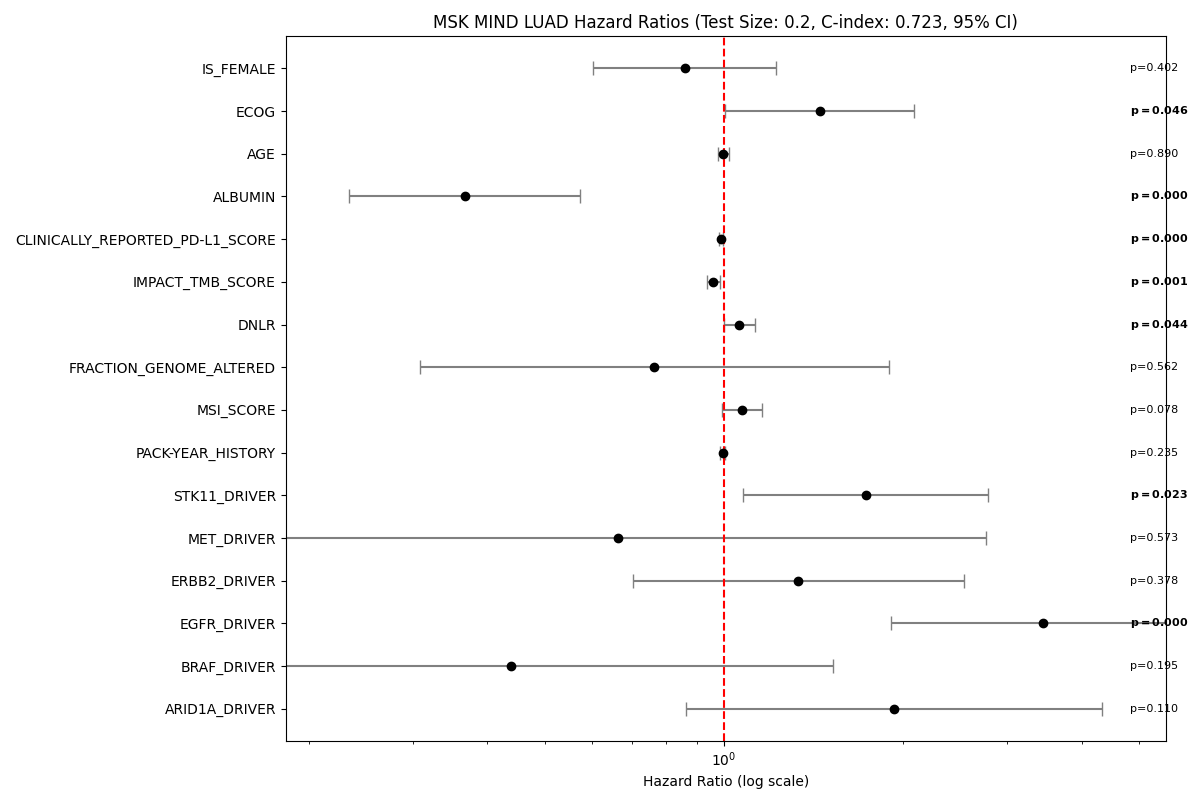
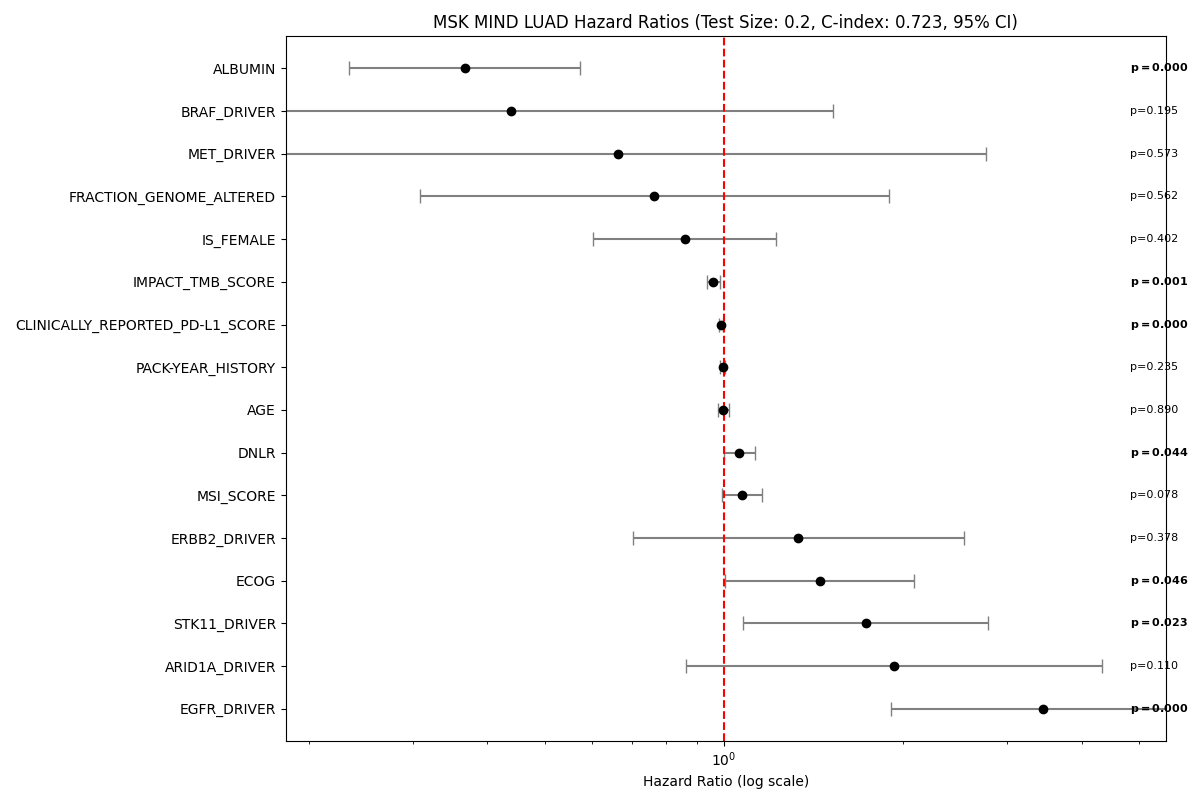
add latex table making

diff --git a/coxph-0.2split.py b/coxph-0.2split.py
@@ -4,6 +4,41 @@ from matplotlib import pyplot as plt
 import numpy as np
 from sklearn.model_selection import train_test_split
 
+
+def dataframe_to_latex(df, caption="Table Caption", label="table:label"):
+    """
+    Convert a pandas DataFrame to a LaTeX tabular environment and print it.
+    
+    Parameters:
+    - df: pandas DataFrame
+    - caption: The caption of the table (optional)
+    - label: The label for referencing the table in LaTeX (optional)
+    """
+    # Start the LaTeX table environment
+    latex_str = "\\begin{table}[htbp]\n"
+    latex_str += "\\centering\n"
+    latex_str += f"\\caption{{{caption}}}\n"
+    latex_str += f"\\label{{{label}}}\n"
+    # afterwards do l c c for left on covariates
+    latex_str += "\\begin{tabular}{" + " | ".join(['c' for _ in df.columns]) + "}\n"
+    latex_str += "\\hline\n"
+
+    # Add column headers
+    latex_str += " & ".join(df.columns) + " \\\\\n"
+    latex_str += "\\hline\n"
+
+    # Add table rows
+    for _, row in df.iterrows():
+        latex_str += " & ".join(map(str, row.values)) + " \\\\\n"
+        # latex_str += "\\hline\n"
+
+    # End the LaTeX table environment
+    latex_str += "\\end{tabular}\n"
+    latex_str += "\\end{table}\n"
+
+    # Print the LaTeX table
+    print(latex_str)
+
 def run_model(df, name):
     # Train-test split
     # Split the data into training and testing sets
@@ -42,6 +77,9 @@ def run_model(df, name):
             return ""
 
     summary_df['significance'] = summary_df['p'].apply(significance_stars)
+    
+    # Sort summary_df by the coefficient values (ascending order)
+    summary_df = summary_df.sort_values(by='coef', ascending=False)
 
     print(summary_df)
 
@@ -65,6 +103,38 @@ def run_model(df, name):
     hazard_ratios = np.exp(cph.params_)  # Exponentiate the coefficients to get hazard ratios
     confidence_intervals = np.exp(cph.confidence_intervals_)  # Exponentiate confidence intervals
     p_values = cph.summary['p']  # Extract p-values from the summary
+    
+    # Print Latex table, round to 2 decimal places
+    summary_df = summary_df.round(2)
+    
+    print(summary_df.info())
+    
+    # Keep only exp(coef) - hazard ratio, exp(coef) lower 95%, exp(coef) upper 95%, p-value
+    latex_df = summary_df[['exp(coef)', 'exp(coef) lower 95%', 'exp(coef) upper 95%', 'p']]
+    
+    # Include covariate names in the table
+    latex_df['Covariate'] = latex_df.index
+    
+    # Remove underscores in the covariate names
+    latex_df['Covariate'] = latex_df['Covariate'].str.replace('_', ' ')
+    
+    # Combine lower and upper confidence interval bounds into hazard ratios 
+    latex_df["Hazard Ratio"] = latex_df["exp(coef)"].astype(str) + " (" + latex_df["exp(coef) lower 95%"].astype(str) + "-" + latex_df["exp(coef) upper 95%"].astype(str) + ")"
+    
+    # Drop the columns that are no longer needed
+    latex_df = latex_df.drop(columns=['exp(coef)', 'exp(coef) lower 95%', 'exp(coef) upper 95%'])
+    
+    # Arrange the columns in the correct order
+    latex_df = latex_df[['Covariate', 'Hazard Ratio', 'p']]
+    
+    dataframe_to_latex(latex_df, caption=f'{name} Model Summary', label='table:model-summary')
+
+    # Sort the parameters by hazard ratio in descending order
+    sorted_indices = np.argsort(hazard_ratios)[::-1]
+    sorted_hazard_ratios = hazard_ratios[sorted_indices]
+    sorted_confidence_intervals = confidence_intervals.iloc[sorted_indices]
+    sorted_p_values = p_values.iloc[sorted_indices]
+    sorted_params = cph.params_.index[sorted_indices]
 
     # Plotting the forest plot
     plt.figure(figsize=(12, 8))
@@ -73,25 +143,25 @@ def run_model(df, name):
     plt.title(f'{name} Hazard Ratios (Test Size: {test_size}, C-index: {c_index:.3f}, 95% CI)')
 
     # Generate a forest plot for hazard ratios with 95% confidence intervals
-    plt.errorbar(hazard_ratios, range(len(hazard_ratios)), 
-                xerr=[hazard_ratios - confidence_intervals.iloc[:, 0], confidence_intervals.iloc[:, 1] - hazard_ratios],
+    plt.errorbar(sorted_hazard_ratios, range(len(sorted_hazard_ratios)), 
+                xerr=[sorted_hazard_ratios - sorted_confidence_intervals.iloc[:, 0], sorted_confidence_intervals.iloc[:, 1] - sorted_hazard_ratios],
                 fmt='o', color='black', ecolor='grey', capsize=5)
 
     # Add labels for the covariates
-    plt.yticks(range(len(hazard_ratios)), cph.params_.index)
+    plt.yticks(range(len(sorted_hazard_ratios)), sorted_params)
     plt.axvline(x=1, linestyle='--', color='red')  # Reference line at HR=1
     plt.xlabel('Hazard Ratio (log scale)')
     plt.xscale('log')  # Logarithmic scale for the hazard ratios
 
-    x_pos = max(hazard_ratios) * 1.4  # Position the p-values far to the right
-    for i, p in enumerate(p_values):
+    x_pos = max(sorted_hazard_ratios) * 1.4  # Position the p-values far to the right
+    for i, (hr, p) in enumerate(zip(sorted_hazard_ratios, sorted_p_values)):
         if p < 0.05:
             plt.text(x_pos, i, f'$\\mathbf{{p={p:.3f}}}$', va='center', ha='left', fontsize=8)
         else:
             plt.text(x_pos, i, f'p={p:.3f}', va='center', ha='left', fontsize=8)
 
     # Adjust x-axis limits to ensure p-values are visible
-    plt.xlim(left=min(hazard_ratios) / 2, right=x_pos * 1.15)
+    plt.xlim(left=min(sorted_hazard_ratios) / 2, right=x_pos * 1.15)
 
     # Display the plot
     plt.tight_layout()

diff --git a/coxph-0.2split-rsf.py b/coxph-0.2split-rsf.py
@@ -4,6 +4,40 @@ from matplotlib import pyplot as plt
 import numpy as np
 from sklearn.model_selection import train_test_split
 
+def dataframe_to_latex(df, caption="Table Caption", label="table:label"):
+    """
+    Convert a pandas DataFrame to a LaTeX tabular environment and print it.
+    
+    Parameters:
+    - df: pandas DataFrame
+    - caption: The caption of the table (optional)
+    - label: The label for referencing the table in LaTeX (optional)
+    """
+    # Start the LaTeX table environment
+    latex_str = "\\begin{table}[htbp]\n"
+    latex_str += "\\centering\n"
+    latex_str += f"\\caption{{{caption}}}\n"
+    latex_str += f"\\label{{{label}}}\n"
+    # afterwards do l c c for left on covariates
+    latex_str += "\\begin{tabular}{" + " | ".join(['c' for _ in df.columns]) + "}\n"
+    latex_str += "\\hline\n"
+
+    # Add column headers
+    latex_str += " & ".join(df.columns) + " \\\\\n"
+    latex_str += "\\hline\n"
+
+    # Add table rows
+    for _, row in df.iterrows():
+        latex_str += " & ".join(map(str, row.values)) + " \\\\\n"
+        # latex_str += "\\hline\n"
+
+    # End the LaTeX table environment
+    latex_str += "\\end{tabular}\n"
+    latex_str += "\\end{table}\n"
+
+    # Print the LaTeX table
+    print(latex_str)
+
 def run_model(df, name):
     # Train-test split
     # Split the data into training and testing sets
@@ -66,6 +100,38 @@ def run_model(df, name):
     confidence_intervals = np.exp(cph.confidence_intervals_)  # Exponentiate confidence intervals
     p_values = cph.summary['p']  # Extract p-values from the summary
 
+    # Print Latex table, round to 2 decimal places
+    summary_df = summary_df.round(2)
+    
+    print(summary_df.info())
+    
+    # Keep only exp(coef) - hazard ratio, exp(coef) lower 95%, exp(coef) upper 95%, p-value
+    latex_df = summary_df[['exp(coef)', 'exp(coef) lower 95%', 'exp(coef) upper 95%', 'p']]
+    
+    # Include covariate names in the table
+    latex_df['Covariate'] = latex_df.index
+    
+    # Remove underscores in the covariate names
+    latex_df['Covariate'] = latex_df['Covariate'].str.replace('_', ' ')
+    
+    # Combine lower and upper confidence interval bounds into hazard ratios 
+    latex_df["Hazard Ratio"] = latex_df["exp(coef)"].astype(str) + " (" + latex_df["exp(coef) lower 95%"].astype(str) + "-" + latex_df["exp(coef) upper 95%"].astype(str) + ")"
+    
+    # Drop the columns that are no longer needed
+    latex_df = latex_df.drop(columns=['exp(coef)', 'exp(coef) lower 95%', 'exp(coef) upper 95%'])
+    
+    # Arrange the columns in the correct order
+    latex_df = latex_df[['Covariate', 'Hazard Ratio', 'p']]
+    
+    dataframe_to_latex(latex_df, caption=f'{name} Model Summary', label='table:model-summary')
+
+    # Sort the parameters by hazard ratio in descending order
+    sorted_indices = np.argsort(hazard_ratios)[::-1]
+    sorted_hazard_ratios = hazard_ratios[sorted_indices]
+    sorted_confidence_intervals = confidence_intervals.iloc[sorted_indices]
+    sorted_p_values = p_values.iloc[sorted_indices]
+    sorted_params = cph.params_.index[sorted_indices]
+
     # Plotting the forest plot
     plt.figure(figsize=(12, 8))
 
@@ -73,26 +139,25 @@ def run_model(df, name):
     plt.title(f'{name} Hazard Ratios (Test Size: {test_size}, C-index: {c_index:.3f}, 95% CI)')
 
     # Generate a forest plot for hazard ratios with 95% confidence intervals
-    plt.errorbar(hazard_ratios, range(len(hazard_ratios)), 
-                xerr=[hazard_ratios - confidence_intervals.iloc[:, 0], confidence_intervals.iloc[:, 1] - hazard_ratios],
+    plt.errorbar(sorted_hazard_ratios, range(len(sorted_hazard_ratios)), 
+                xerr=[sorted_hazard_ratios - sorted_confidence_intervals.iloc[:, 0], sorted_confidence_intervals.iloc[:, 1] - sorted_hazard_ratios],
                 fmt='o', color='black', ecolor='grey', capsize=5)
 
     # Add labels for the covariates
-    plt.yticks(range(len(hazard_ratios)), cph.params_.index)
+    plt.yticks(range(len(sorted_hazard_ratios)), sorted_params)
     plt.axvline(x=1, linestyle='--', color='red')  # Reference line at HR=1
     plt.xlabel('Hazard Ratio (log scale)')
     plt.xscale('log')  # Logarithmic scale for the hazard ratios
 
-    x_pos = max(hazard_ratios) * 1.4  # Position the p-values far to the right
-    for i, p in enumerate(p_values):
+    x_pos = max(sorted_hazard_ratios) * 1.4  # Position the p-values far to the right
+    for i, (hr, p) in enumerate(zip(sorted_hazard_ratios, sorted_p_values)):
         if p < 0.05:
             plt.text(x_pos, i, f'$\\mathbf{{p={p:.3f}}}$', va='center', ha='left', fontsize=8)
         else:
             plt.text(x_pos, i, f'p={p:.3f}', va='center', ha='left', fontsize=8)
 
     # Adjust x-axis limits to ensure p-values are visible
-    plt.xlim(left=min(hazard_ratios) / 2, right=x_pos * 1.15)
-
+    plt.xlim(left=min(sorted_hazard_ratios) / 2, right=x_pos * 1.15)
     # Display the plot
     plt.tight_layout()
     name = name.replace(' ', '-')
